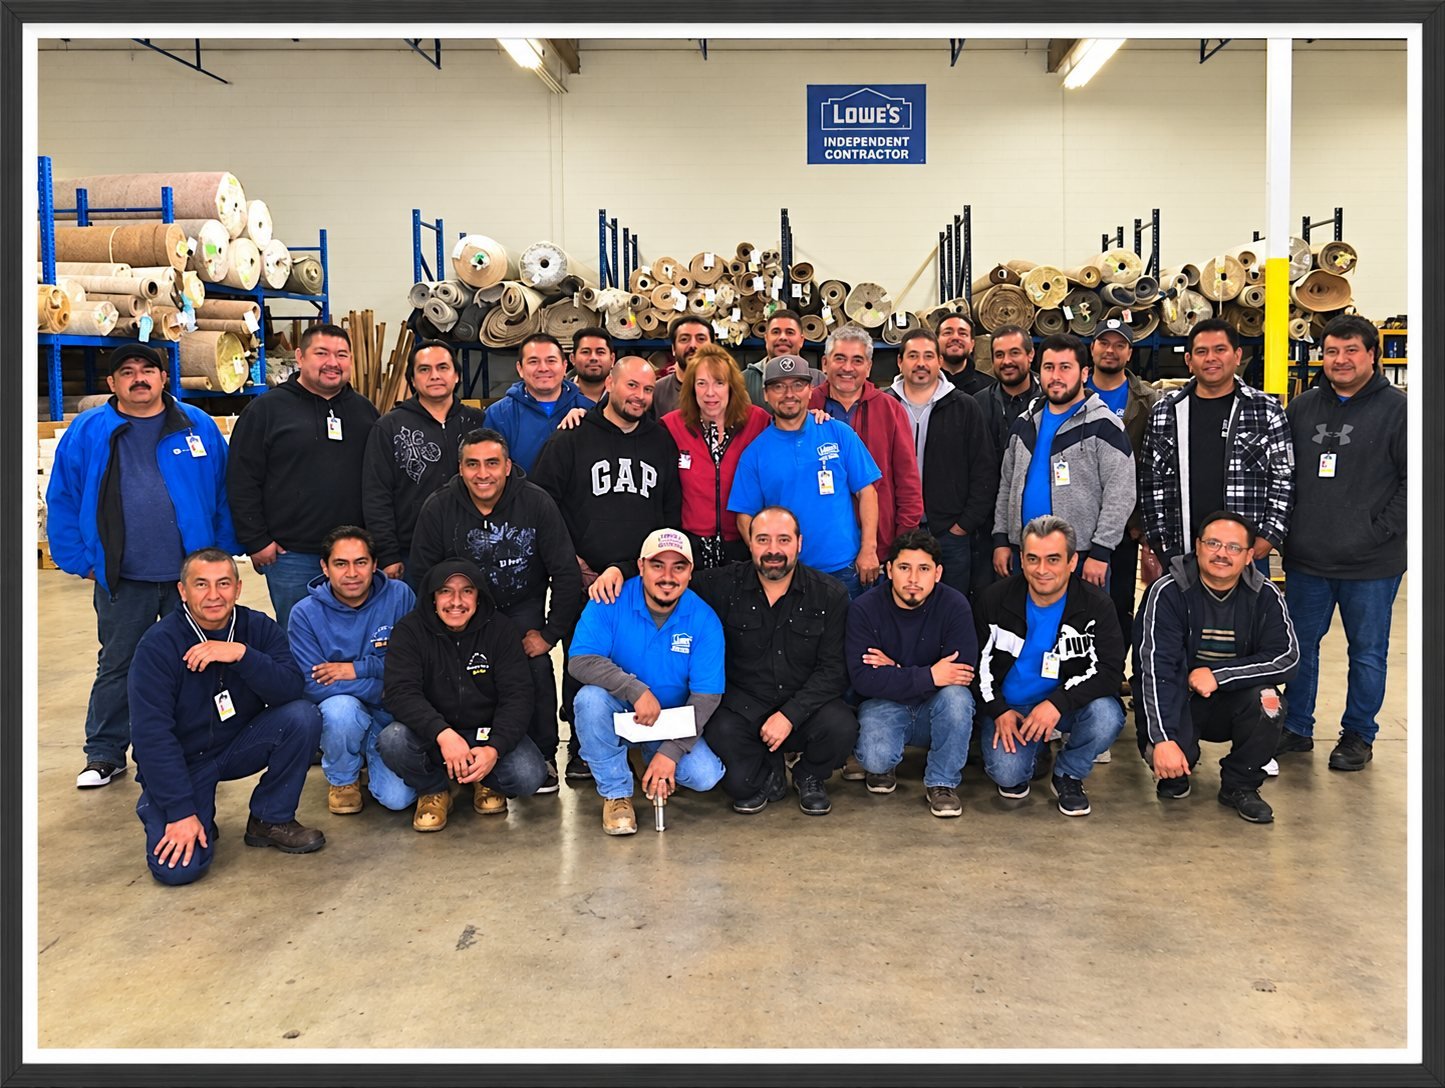
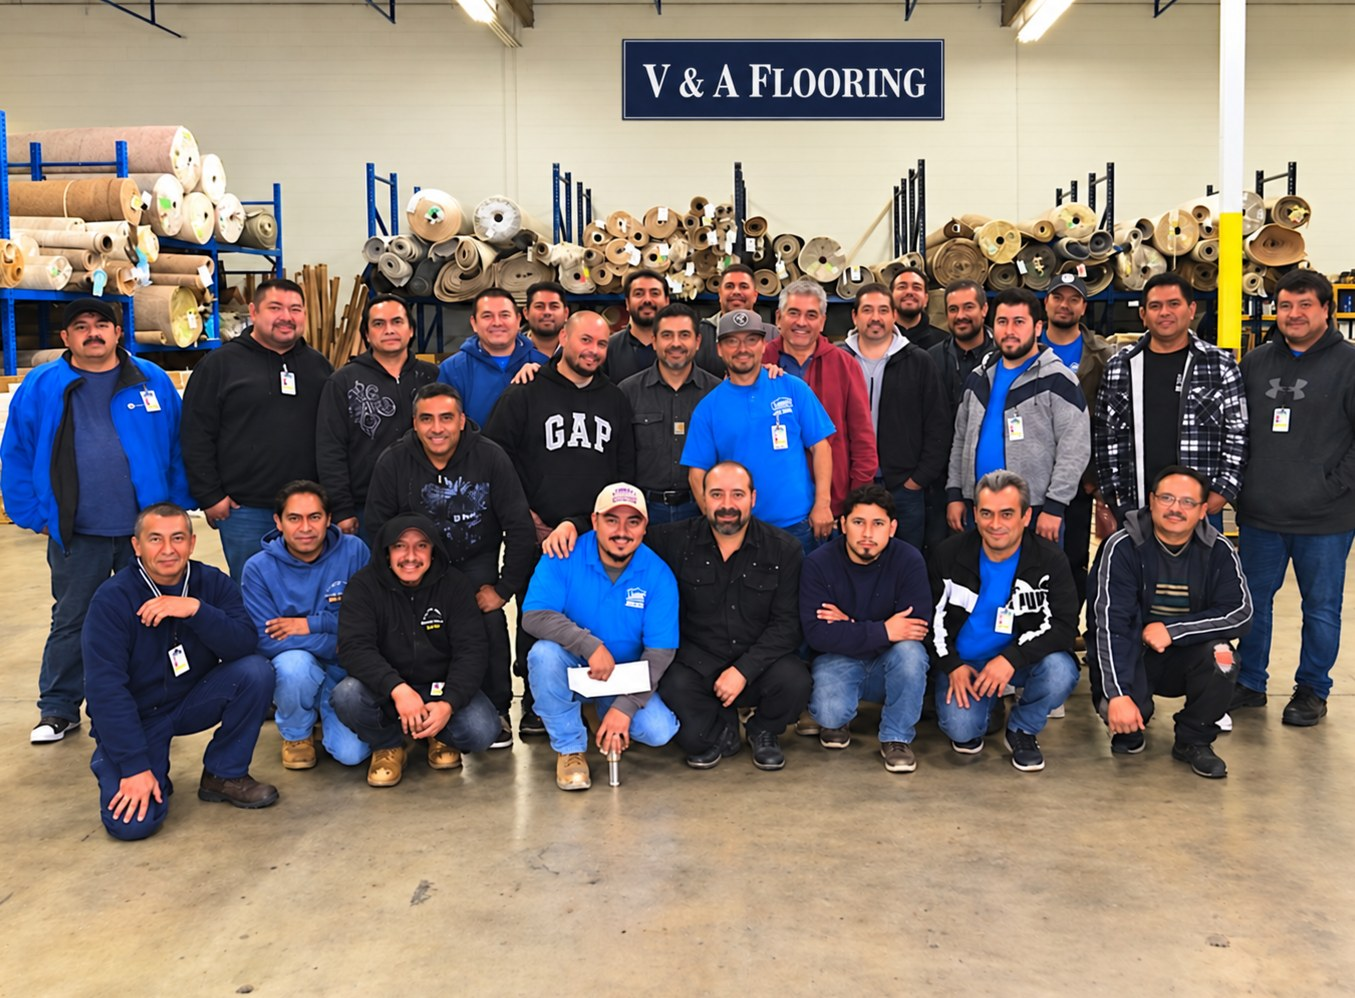
Replace team photo with the V & A Flooring warehouse group photo
Claude-Session: https://claude.ai/code/session_0121JweBTLe6FsTKw6TgaNtZ

diff --git a/src/content/credentials.ts b/src/content/credentials.ts
@@ -73,9 +73,9 @@ export const credentials: Credential[] = [
   {
     title: "Our installation team",
     issuer: "V & A Flooring Inc",
-    detail: "Installers and staff gathered at a Lowe’s flooring installation warehouse.",
+    detail: "Installers and staff at the V & A Flooring warehouse.",
     group: "team",
     src: team,
-    alt: "Group photo of V & A Flooring Inc installers in a flooring warehouse with carpet rolls on racks",
+    alt: "Group photo of V & A Flooring Inc installers and staff in the V & A Flooring warehouse, with carpet rolls on racks behind them",
   },
 ];
